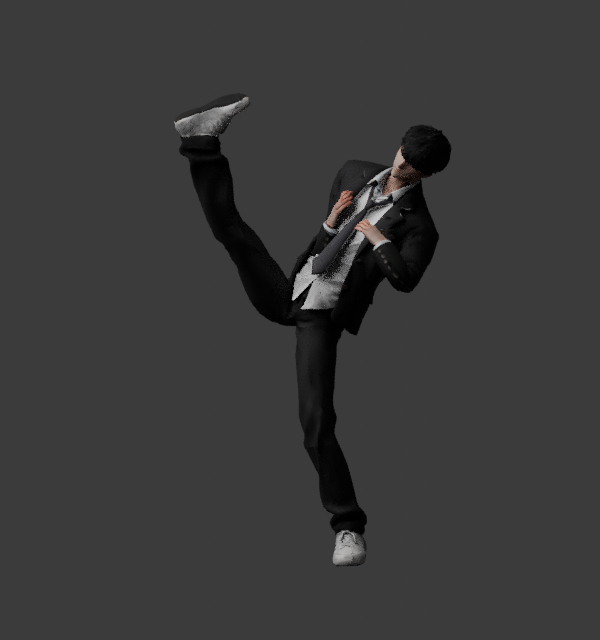
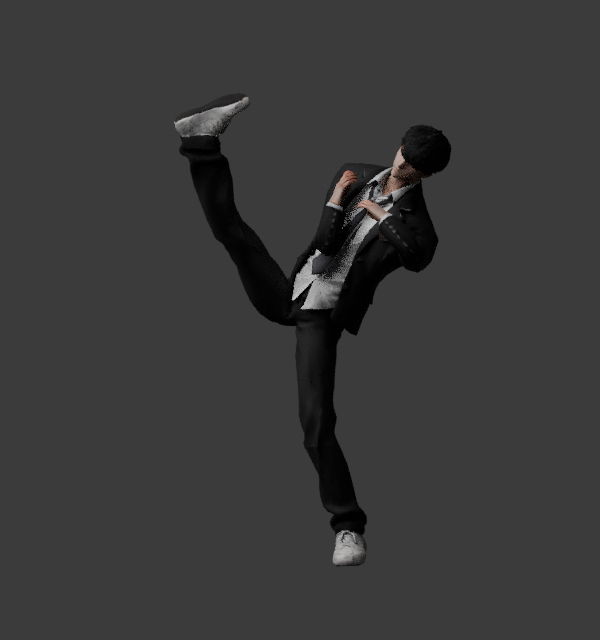
Limit guard height to avoid excessive shoulder stretch

Changed region(s): [[0.51, 0.25, 0.72, 0.4688]]

diff --git a/Tools/Motion/verify_fighting_hook.py b/Tools/Motion/verify_fighting_hook.py
@@ -33,7 +33,7 @@ def pose(p):
  for n,deg in [('Spine',8*(1-ext)),('Chest',3*(1-ext))]:
   b=bones[n];b.rotation_quaternion=Quaternion(b.bone.matrix_local.to_quaternion().inverted()@Vector((1,0,0)),math.radians(deg))
  for side in ['Left','Right']:
-  sign=1 if side=='Left' else -1;names=[side+'UpperArm',side+'Forearm',side+'Hand'];a,b,c=[pos(n) for n in names];target=pos('Head')+yq@Vector((sign*.14,-.17,.06));u=(b-a).length;l=(c-b).length;delta=target-a;d=max(abs(u-l)+.001,min(u+l-.001,delta.length));direction=delta.normalized();bend=yq@Vector((sign*.35,-.1,-1));pole=(bend-direction*bend.dot(direction)).normalized();along=(u*u+d*d-l*l)/(2*d);k=a+direction*along+pole*math.sqrt(max(0,u*u-along*along));rotate(names[0],(b-a).rotation_difference(k-a));b=pos(names[1]);c=pos(names[2]);rotate(names[1],(c-b).rotation_difference(a+direction*d-b))
+  sign=1 if side=='Left' else -1;names=[side+'UpperArm',side+'Forearm',side+'Hand'];a,b,c=[pos(n) for n in names];target=pos('Head')+yq@Vector((sign*.14,-.17,0));u=(b-a).length;l=(c-b).length;delta=target-a;d=max(abs(u-l)+.001,min(u+l-.001,delta.length));direction=delta.normalized();bend=yq@Vector((sign*.35,-.1,-1));pole=(bend-direction*bend.dot(direction)).normalized();along=(u*u+d*d-l*l)/(2*d);k=a+direction*along+pole*math.sqrt(max(0,u*u-along*along));rotate(names[0],(b-a).rotation_difference(k-a));b=pos(names[1]);c=pos(names[2]);rotate(names[1],(c-b).rotation_difference(a+direction*d-b))
  for side in ['Left','Right']:
   b=bones[side+'Hand'];long=(bones[side+'Hand'].head-bones[side+'Forearm'].head).normalized();b.rotation_quaternion=Quaternion(b.bone.matrix_local.to_quaternion().inverted()@long,math.radians(40 if side=='Left' else -40))
  bpy.context.view_layer.update();left=home['Left'].copy();left.x*=2;left.y-=.20

diff --git a/Assets/Scripts/ImportedPlayerView.cs b/Assets/Scripts/ImportedPlayerView.cs
@@ -319,7 +319,7 @@ public sealed class ImportedPlayerView : MonoBehaviour
             string side = i == 0 ? "Left" : "Right";
             Transform upper = joints[side + "UpperArm"].Bone, elbow = joints[side + "Forearm"].Bone, hand = i == 0 ? leftHand : rightHand;
             float sign = Mathf.Sign((i == 0 ? leftFootHome : rightFootHome).x);
-            Vector3 target = joints["Head"].Bone.position + model.rotation * new Vector3(sign * .14f, .06f, .17f);
+            Vector3 target = joints["Head"].Bone.position + model.rotation * new Vector3(sign * .14f, 0, .17f);
             target = Vector3.Lerp(hand.position, target, guardWeight);
             Vector3 origin = upper.position, delta = target - origin;
             float a = Vector3.Distance(origin, elbow.position), b = Vector3.Distance(elbow.position, hand.position);
